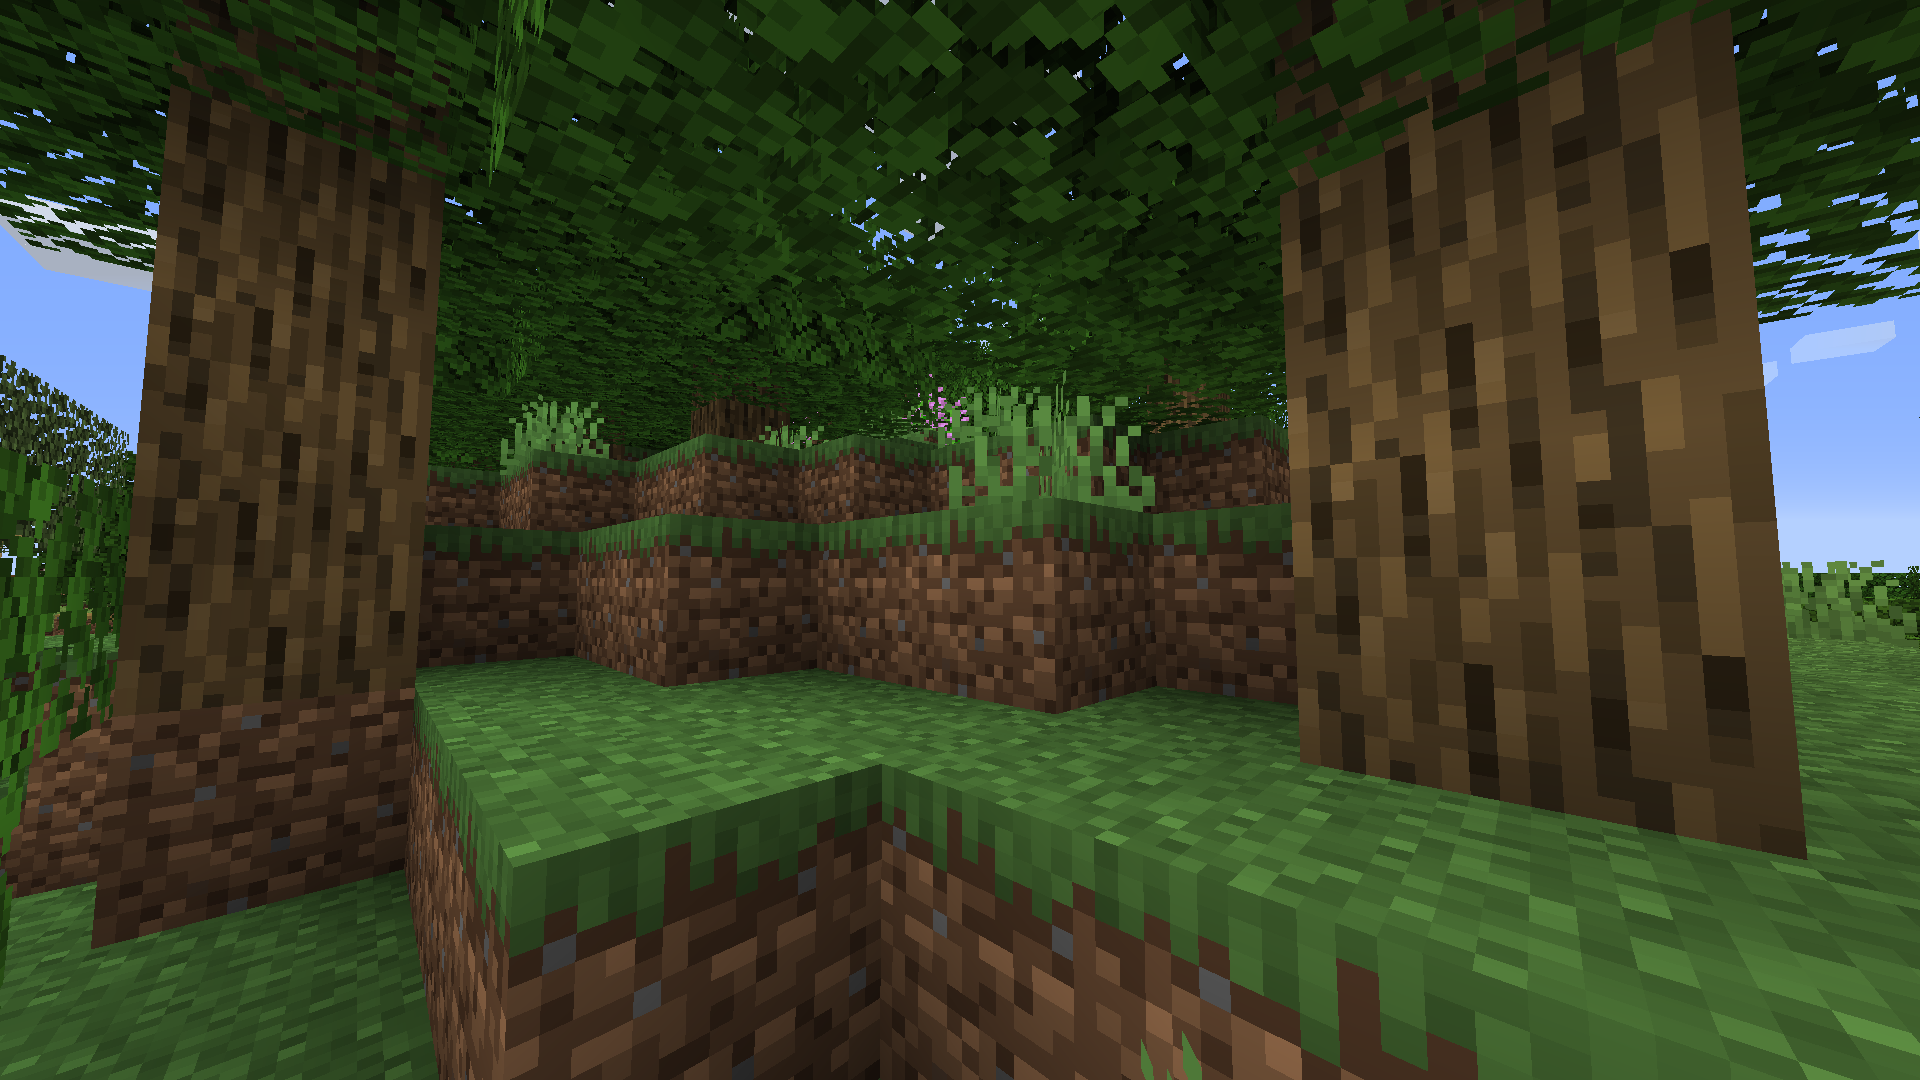
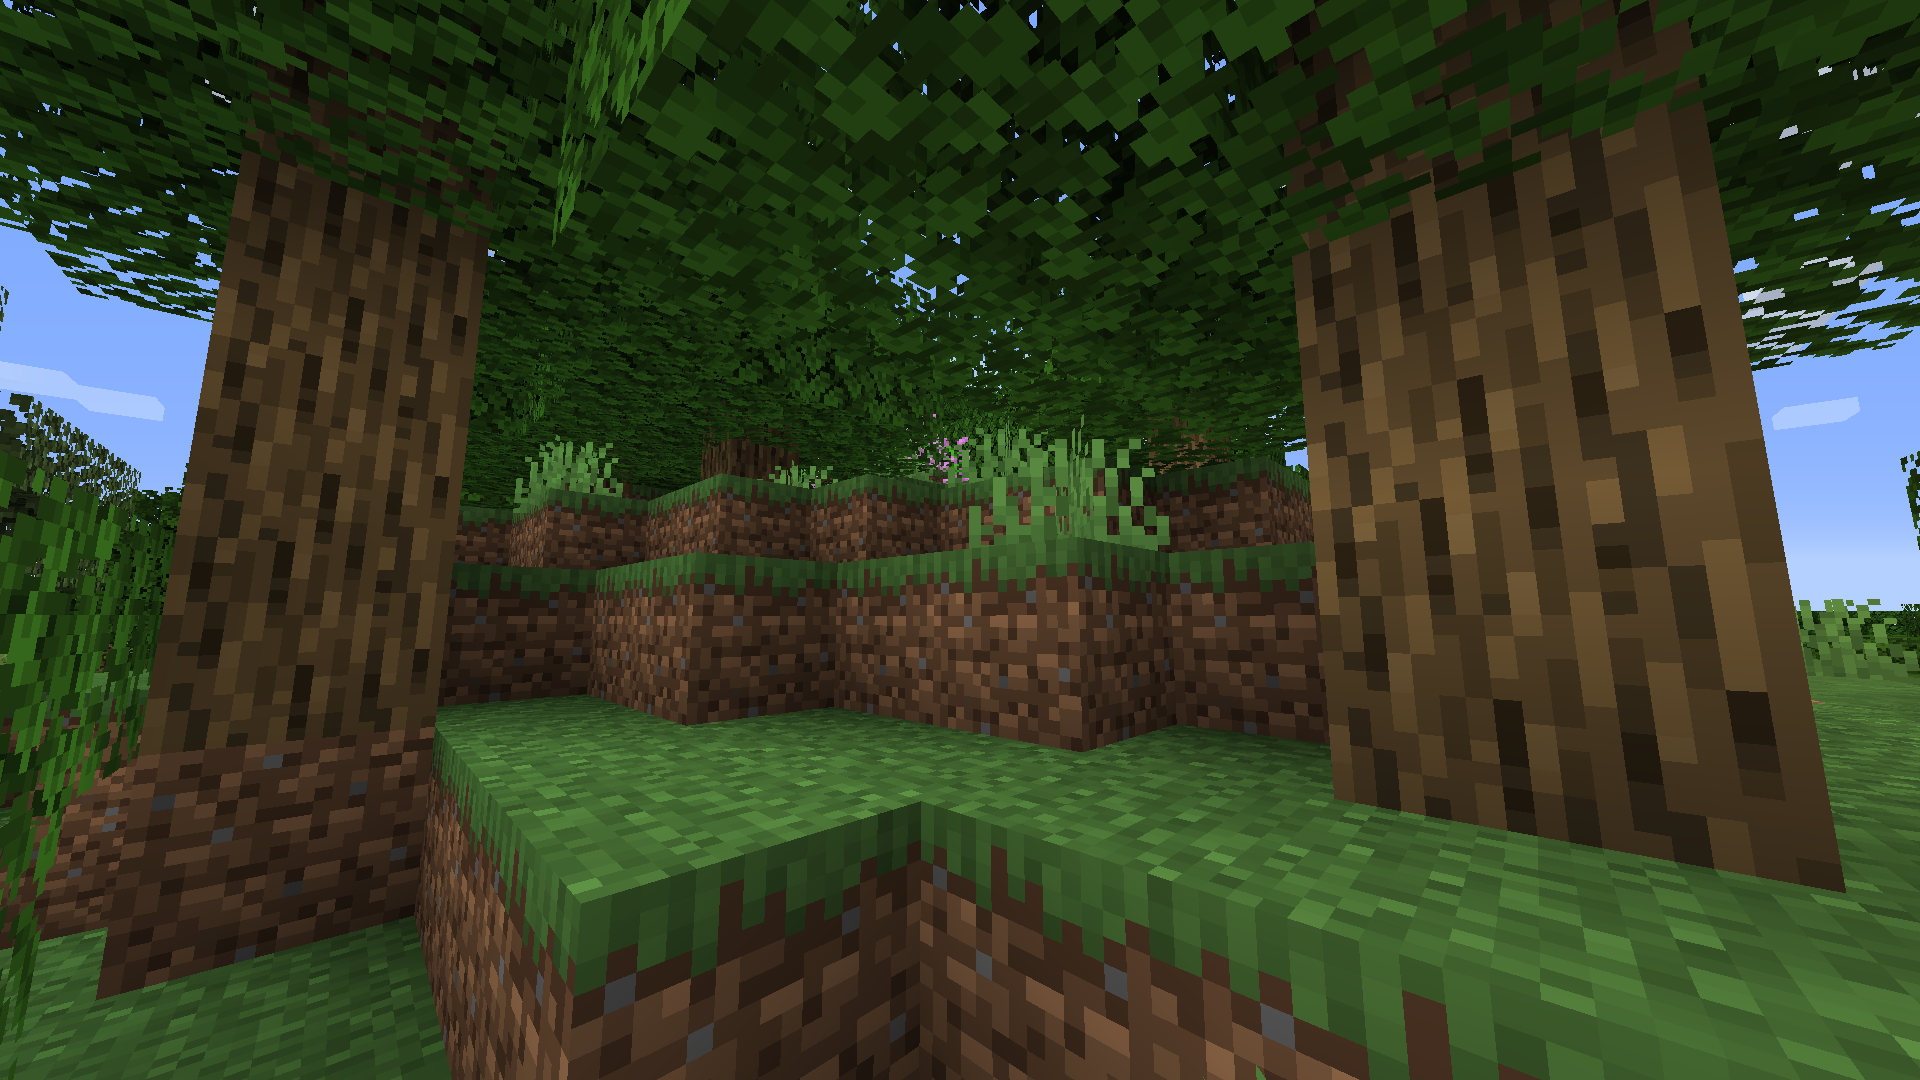
added block breaking

diff --git a/code/gameplay.js b/code/gameplay.js
@@ -24,7 +24,7 @@ choiceBtns.forEach((e) => {
   }
 });
 
-const img = document.querySelector(".img-canvas");
+const layerImg = document.querySelector(".img-canvas");
 // Creating the canvas to detect some specifics locations of the images
 //the canvas is at opacity 0
 const canvas = document.querySelector(".layer-canvas");
@@ -34,7 +34,7 @@ gameplayContainerr.appendChild(canvas);
 function checkPixelColor(x, y) {
   //fct that get the color of a pixel of an image in the cavas at given coordinates
   //the img src is set in the index
-  if (img.src === "") {
+  if (layerImg.src === "") {
     return;
   }
   //Making the canvas size = to the one of the gamplay
@@ -43,7 +43,7 @@ function checkPixelColor(x, y) {
 
   // Drawing the image
   ctx.drawImage(
-    img,
+    layerImg,
     0,
     0,
     gameplayContainerr.clientWidth,
@@ -57,20 +57,45 @@ function checkPixelColor(x, y) {
   return `${imageData[0]}, ${imageData[1]}, ${imageData[2]}`;
 }
 
-gameplayContainerr.addEventListener("mousemove", function (event) {
-  //geting x and y coordinates relative to the gamplay container
-  const rect = gameplayContainerr.getBoundingClientRect();
-  const x = event.clientX - rect.left;
-  const y = event.clientY - rect.top;
-  //getting the color of the pixel at the location of the pointer on the canvas image
-  const color = checkPixelColor(x, y);
-  switch (color) {
-    case "246, 0, 255":
-      console.log("breakable");
-      gameplayContainerr.style.cursor = "crosshair";
-      break;
-    default:
-      gameplayContainerr.style.cursor = "default";
-      break;
+const destroyAnimation = document.querySelector(".destroy-animation");
+const destroyAnimationImg = document.querySelector(".destroy-animation img");
+destroyAnimationImg.src = "./assets/destroy_stages/destroy_stage_0.png";
+
+const layerOutline = document.querySelector(".layer-outline");
+
+let breakable = false;
+gameplayContainerr.addEventListener("mousemove", function (e) {
+  if (layerImg.src !== "") {
+    //geting x and y coordinates relative to the gamplay container
+    const rect = gameplayContainerr.getBoundingClientRect();
+    const x = e.clientX - rect.left;
+    const y = e.clientY - rect.top;
+
+    //getting the color of the pixel at the location of the pointer on the canvas image
+    const color = checkPixelColor(x, y);
+    switch (color) {
+      case "246, 0, 255":
+        gameplayContainerr.style.cursor =
+          "url(./assets/textures/diamond_pickaxe.png, auto)";
+        breakable = true;
+        layerOutline.style.opacity = "1";
+        // destroyAnimation.style.left =
+        // x - destroyAnimation.offsetWidth - 5 + "px";
+        // destroyAnimation.style.top =
+        // y - destroyAnimation.offsetHeight - 5 + "px";
+        break;
+      default:
+        breakable = false;
+        layerOutline.style.opacity = "0";
+        gameplayContainerr.style.cursor = "default";
+        break;
+    }
   }
 });
+
+gameplayContainerr.addEventListener("mouseup", () => {
+  if (breakable) {
+    window.location = `router.php?action=breakBlocks&region=${currentRegion}&scene=${currentScene}`;
+  }
+});
+function breakBlocks() {}

diff --git a/code/style.css b/code/style.css
@@ -41,12 +41,11 @@ body::backdrop {
   border-radius: 3px;
   height: 80%;
   position: relative;
+  cursor: url("./assets/textures/diamond_pickaxe.png");
 }
 
 .gameplay-img {
   width: 100%;
-  z-index: 4;
-  /* display: none; */
 }
 
 .img-canvas {
@@ -59,6 +58,15 @@ body::backdrop {
   left: 0;
   pointer-events: none;
   opacity: 0;
+}
+
+.layer-outline {
+  position: absolute;
+  top: 0;
+  left: 0;
+  width: 100%;
+  opacity: 0;
+  transition: 0.1s;
 }
 
 .chat {
@@ -88,6 +96,19 @@ body::backdrop {
 
 .pin-coordiates {
   display: none;
+}
+
+.destroy-animation {
+  aspect-ratio: 1/1;
+  position: absolute;
+  top: 0;
+  left: 0;
+  width: 10%;
+  z-index: 5;
+}
+.destroy-animation img {
+  width: 100%;
+  image-rendering: pixelated;
 }
 
 .btn {

diff --git a/code/index.php b/code/index.php
@@ -9,6 +9,13 @@ $currentScene = $playerInfos["currentScene"] === "" ? "spawn0" : $playerInfos["c
 $regionJson = json_decode(file_get_contents("./regions/" . $currentRegion . ".json"), true);
 $sceneData = $regionJson[$currentScene];
 
+$haveBlocksBeenBroken = null;
+if (in_array($currentScene, $playerInfos["sceneWhereBlocksBroken"])) {
+    $haveBlocksBeenBroken = true;
+} else {
+    $haveBlocksBeenBroken = false;
+}
+
 ?>
 
 <!DOCTYPE html>
@@ -51,9 +58,10 @@ $sceneData = $regionJson[$currentScene];
             <img src="./assets/img/inventory_btn.png" alt="Inventaire">
         </div>
 
-        <img class="gameplay-img" src="./assets/gameplay_img/<?= $sceneData["backgroundImg"] ?>.png" alt="">
+        <img class="gameplay-img" src="./assets/gameplay_img/<?= $haveBlocksBeenBroken ? $sceneData["blocksBroken"] : $sceneData["backgroundImg"] ?>.png" alt="">
         <canvas class="layer-canvas"></canvas>
-        <img class="img-canvas" src="<?= $sceneData["layerImage"] ?>">
+        <img class="img-canvas" src="<?php if (isset($sceneData["layerImage"]) && !$haveBlocksBeenBroken) echo './assets/gameplay_img/' . $sceneData["layerImage"] . '.png' ?>">
+        <img class="layer-outline" src="<?php if (isset($sceneData["outline"]) && !$haveBlocksBeenBroken) echo './assets/gameplay_img/' . $sceneData["outline"] . '.png' ?>" alt="">
 
         <div class="chat">
             <p><?= $sceneData["chatText"] ?></p>
@@ -62,7 +70,12 @@ $sceneData = $regionJson[$currentScene];
         <div class="pin hidden">
             <img src="./assets/img/pin.png" alt="">
         </div>
+        <div class="destroy-animation">
+            <img src="" alt="">
+        </div>
+
     </div>
+
 
     <div class="btn-separator last-btn-separator mobile-separator">
         <a class="choices-btn btn third-choice">

diff --git a/code/fn.php b/code/fn.php
@@ -6,3 +6,11 @@ function changeScene($playerInfos, $region, $scene)
     $playerInfos["currentScene"] = $scene;
     file_put_contents('./player_infos.json', json_encode($playerInfos));
 }
+
+function breakBlocks($playerInfos, $region, $scene)
+{
+    if (!in_array($scene, $playerInfos["sceneWhereBlocksBroken"])) {
+        array_push($playerInfos["sceneWhereBlocksBroken"], $scene);
+    }
+    file_put_contents('./player_infos.json', json_encode($playerInfos));
+}

diff --git a/code/router.php b/code/router.php
@@ -10,6 +10,8 @@ switch ($action) {
     case "changeScene":
         changeScene($playerInfos, $_GET["region"], $_GET["scene"]);
         break;
+    case "breakBlocks":
+        breakBlocks($playerInfos, $_GET["region"], $_GET["scene"]);
 }
 
 header('Location: /');
